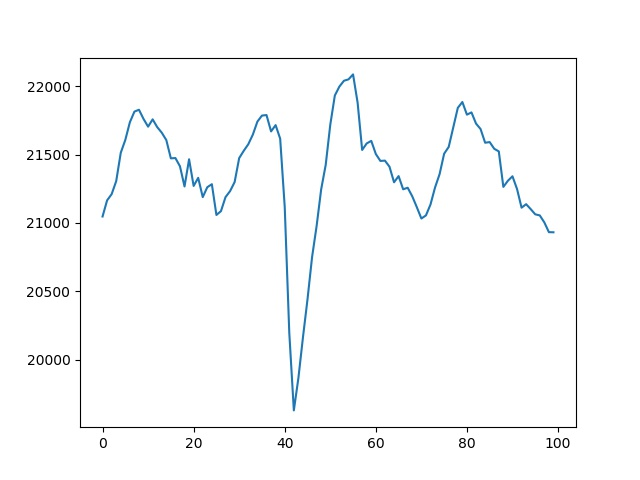
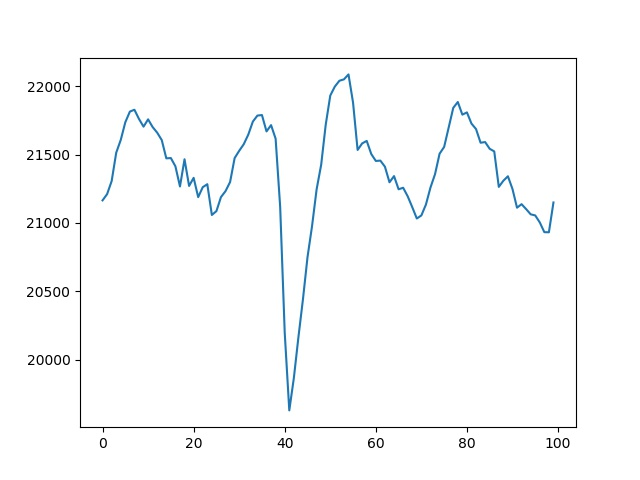
'auto'

diff --git a/README.md b/README.md
@@ -1,5 +1,5 @@
 Frizider live: 8
-20931.574999999997 
+21149.608333333334 
 1
 Temperatura:
 
